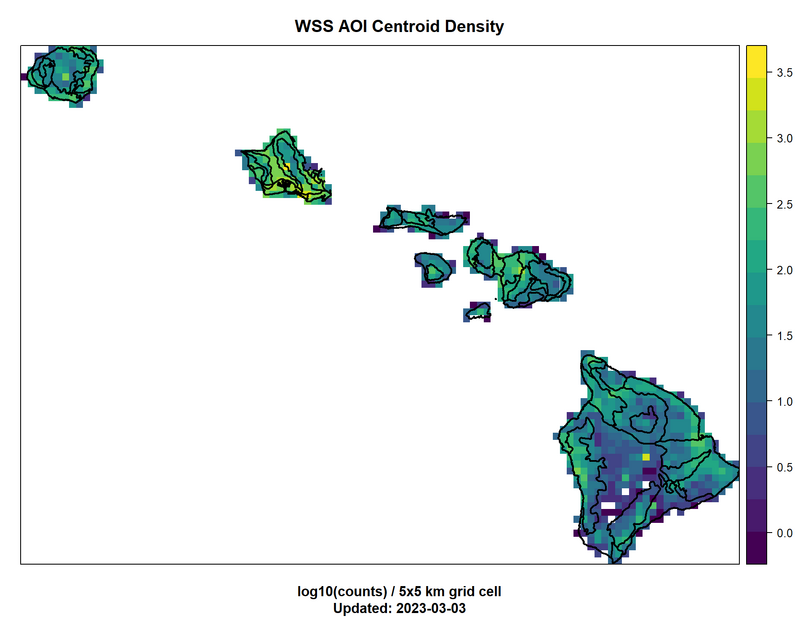
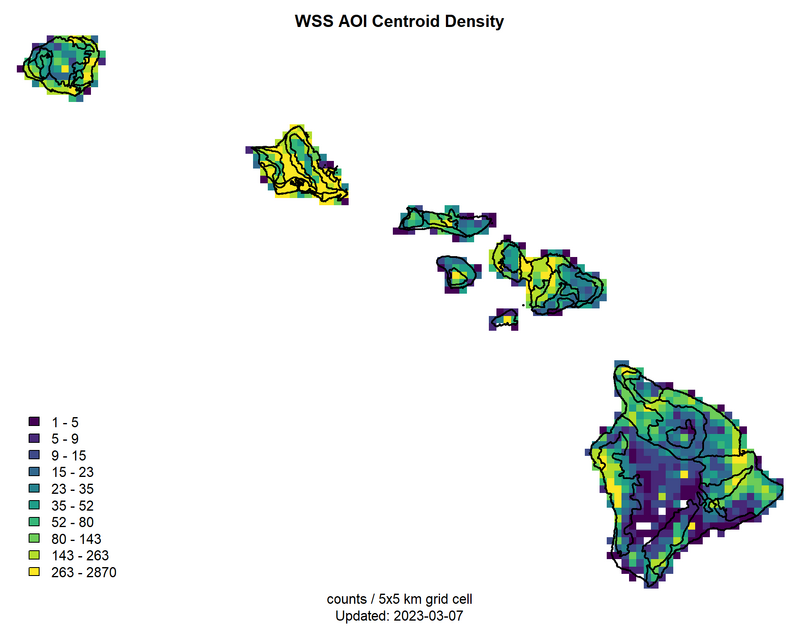
trying not log scale

diff --git a/TODO.md b/TODO.md
@@ -1,6 +1,8 @@
 # TODO
 
  * process by chunk
+ * consider better control over thematic maps via classInt pkg
+ * alternatives to log-transform
 
 ## WSS
 
